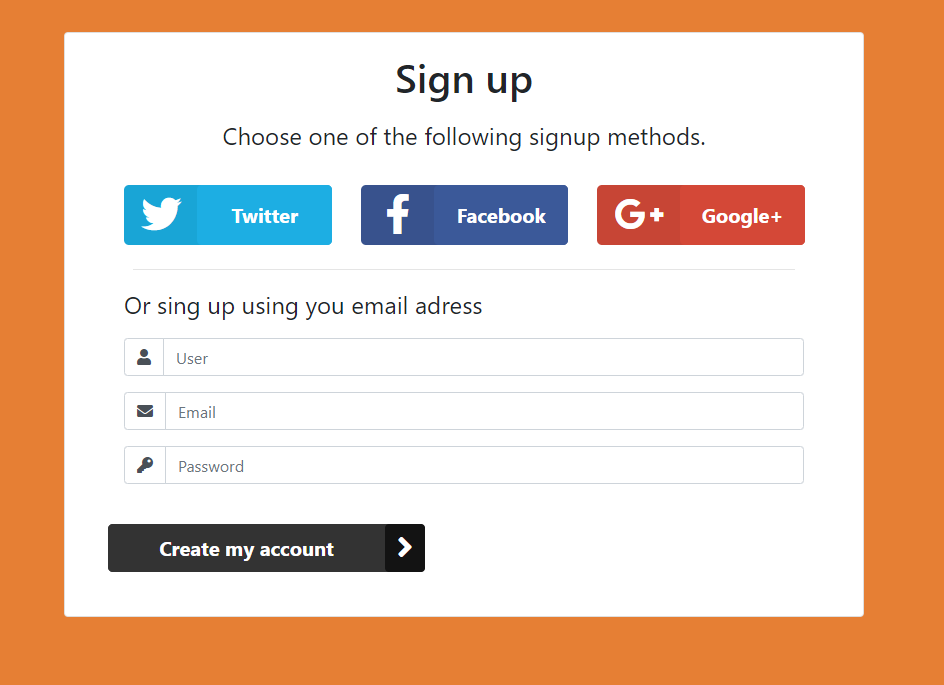
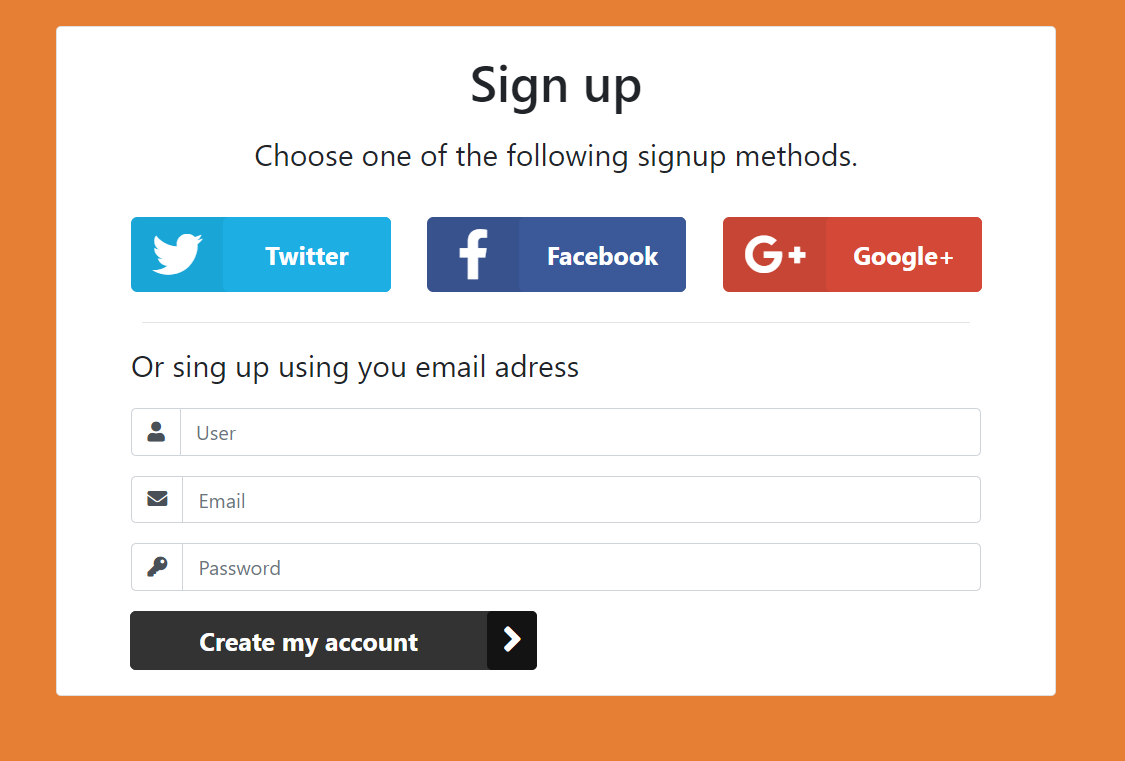
fixed little button margin and added new screenshot and gif

Changed region(s): [[0.0307, 0.0307, 0.9523, 0.9197], [0.8294, 0.5212, 0.8602, 0.5518]]

diff --git a/index.html b/index.html
@@ -93,9 +93,9 @@
                             </div>
                         </div>
                     </div>
-                    <div class="row">
+                    <div class="row mx-4">
                         <div class="col-md-6">
-                            <div class="input-group-lg m-4 ">
+                            <div class="input-group-lg ">
                                 <div class="input-group-append account " id="button-addon3">
                                     <button type="button" class="btn account w-100"><span class="btn-text">Create my
                                             account</span></button>
